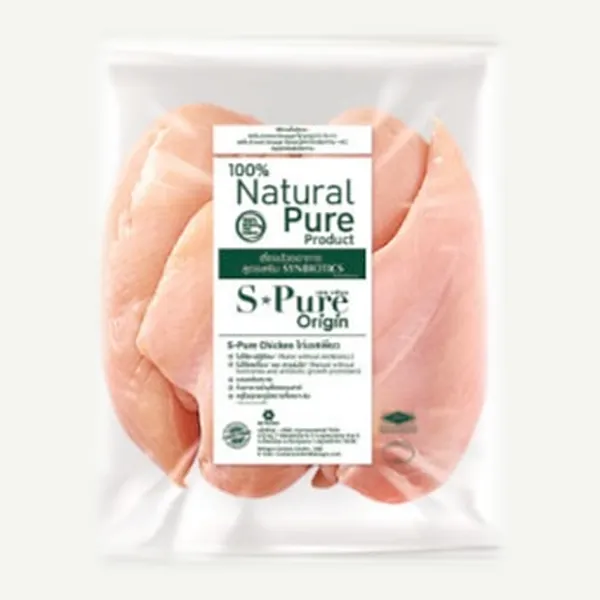
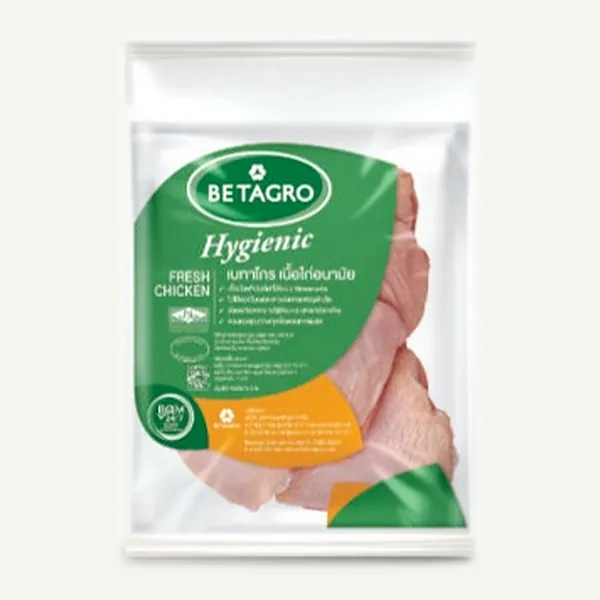
Update Smart Menu

diff --git a/wiki/design-feedback.md b/wiki/design-feedback.md
@@ -7,3 +7,4 @@
 - 2026-10-22: Petch: when catalogue and price sheet disagree on names, **the price sheet wins** (e.g. CK-012 ปีกปลายไก่ stays "Wing tip", not catalogue "2-joint wing").
 - 2026-10-22: v2 UI built (cloud `6f56e48`) from design/DESIGN_BRIEF.md: 2-column catalogue grid, photo per product, tier pills, bottom-sheet tier table. Deviations: Thai names dark green (leaf failed 4.5:1 contrast); tier pills drop the unit to avoid wrapping. Copied into local clone, awaiting Petch review + push.
 - 2026-10-24: Petch asked for Japanese, Chinese, Korean and Indian, each "paired with English". Decided (Petch): Chinese = simplified, Indian = Hindi, every page a shop sees (menu, cart/checkout, login, History + summary). BUILT locally (NOT pushed; ?v=2026-10-24e; site only, no Apps Script change): `i18n.js` holds the four languages for all three pages + the language list; each page lays them over English, so a missing text shows English, never blank, and without i18n.js the picker offers only ไทย/EN. Product names: `name_ja/zh/ko/hi` (+ descriptions) in data/catalog.json for all 65 products (Claude's translations), shown with the English name under them (Thai mode: English under; English mode: Thai under — unchanged). LINE order message to staff and the Admin page stay Thai. Picker = pill (globe + current language) over a transparent native select, so iPhone shows its own list. ja/zh/ko cover dates written out ("10月24日〜30日", "10월 24일~30일") because Intl gives "2026/10/24～2026/10/30"; Hindi uses full month names. History summary: total now on its own row (฿10,804 broke in a third-width box). System fonts per language (Hiragino / PingFang / Apple SD Gothic Neo / Kohinoor Devanagari). Tests: tests/site/i18n.test.mjs — every English text exists in all four languages with the same kind of value (a deliberate deletion was caught), picker offers exactly the six, every active product has all four names, date ranges; validator warns for an active product missing a name. Browser check at 375 px: all six languages, cart + checkout + a real order in Japanese (customer sees Japanese, LINE text Thai), History in ja/hi, login page in ko, switching without reload keeps Thai/English exactly as before.
+- 2026-10-30: Petch: we do NOT sell S-Pure — every photo must be a Betagro pack. The 12 S-Pure photos were overwritten with the nearest Betagro pack already in assets (catalog `photo_match` updated): PK-002/003 ← PK-006 ribs (similar), PK-008 ← PK-007 (close), PK-019 ← PK-016 belly (close), PK-033 ← PK-009 ham (close), CK-013/014/019 ← CK-015 thigh (similar), CK-020 ← CK-015 (close), CK-024 ← CK-008 skinless breast (similar), CK-023/026 whole chicken ← CK-005 bone-in leg (similar — no Betagro whole-chicken pack in the catalogue pages we have; replace if Betagro sends one). Same day: real 24–30/10 sheet published over the carry-over (26 of 65 prices changed; extracted_by claude, checked at zoom).

diff --git a/wiki/NEXT-SESSION.md b/wiki/NEXT-SESSION.md
@@ -1,11 +1,11 @@
 # Next session — pick up here (written 2026-10-23 01:38, updated 2026-10-24 end of day)
 
-## 2026-10-27 — login by phone OR shop name: LIVE on Apps Script, push + iPhone test left
+## 2026-10-27 — login by phone OR shop name: LIVE (Apps Script v13 + site ?v=2026-10-27a), iPhone test left
 Done by Claude (Petch asked "ทำให้หน่อย"): Apps Script files replaced (sha256 = repo), setup() ran (Login_Name added),
 order + Admin deployments on Version 13, CUS-W008 saved in the admin page → "เข้าระบบ: <shop name>".
 Commit 3755e82 made locally; git push from Claude waited on a GitHub sign-in window, so it was cancelled.
 Petch's to-do:
-1. GitHub Desktop → Push origin (1–2 commits) → Actions ✓ → live ?v=2026-10-27a.
+1. DONE — Petch pushed 3755e82 + 427e9cd; Actions "validate and deploy" ✓; live member.html checked (new field, ?v=2026-10-27a).
 2. iPhone: member.html → log in with the shop name (any capitals), then log out and log in with the phone.
 
 ## End of day 2026-10-24 — read first
